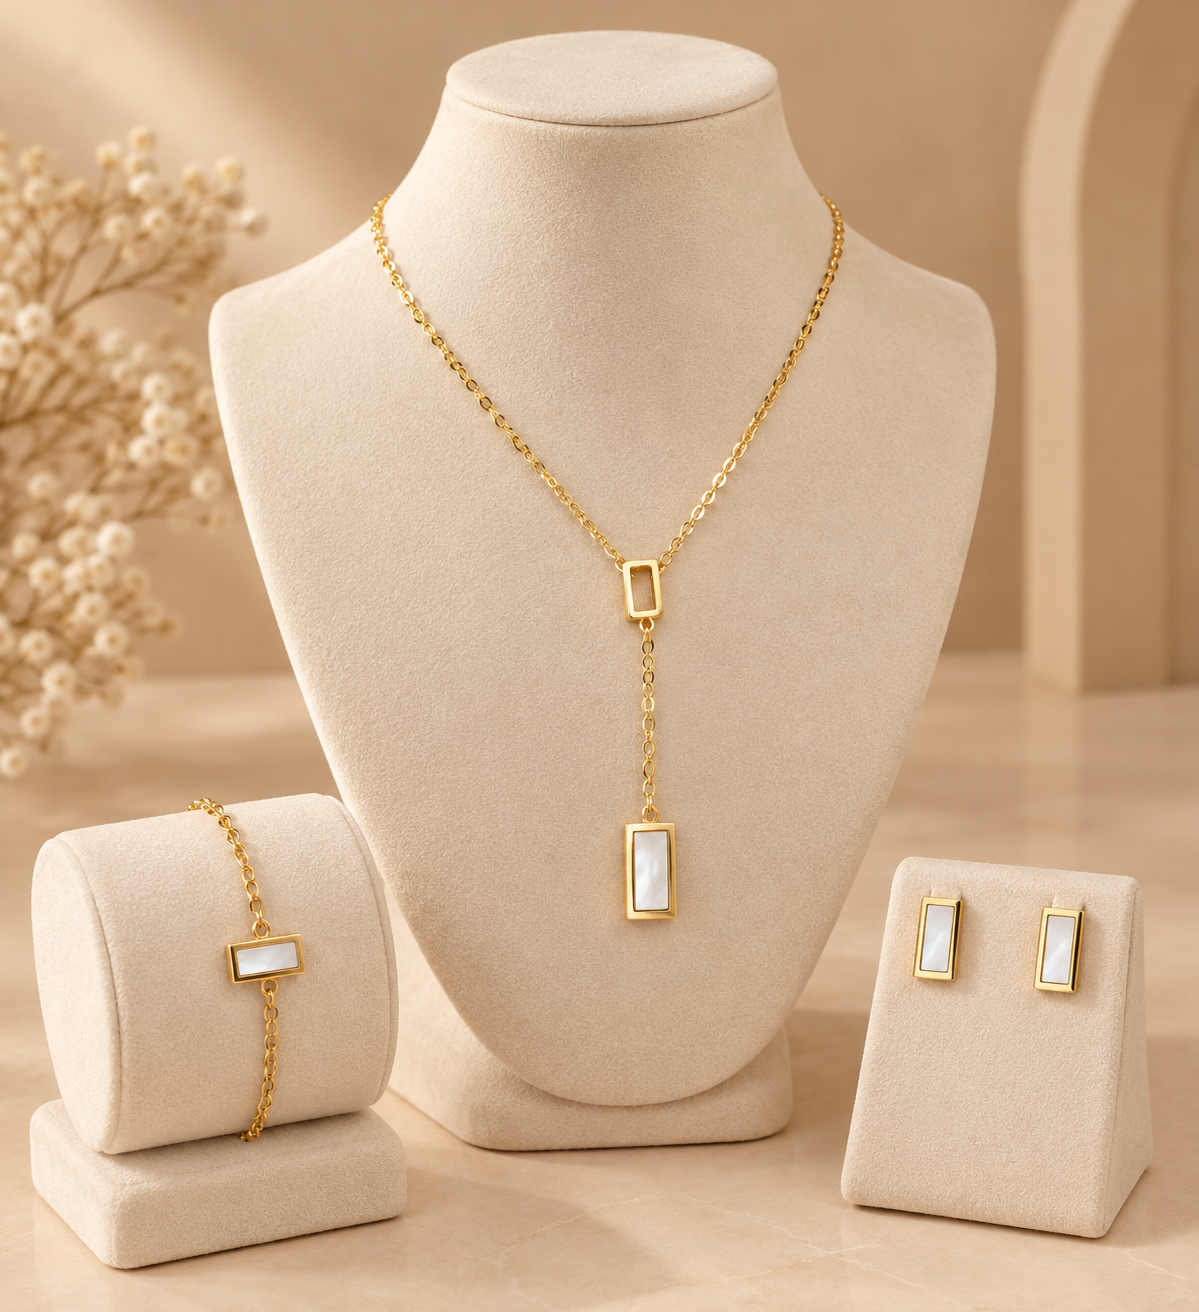
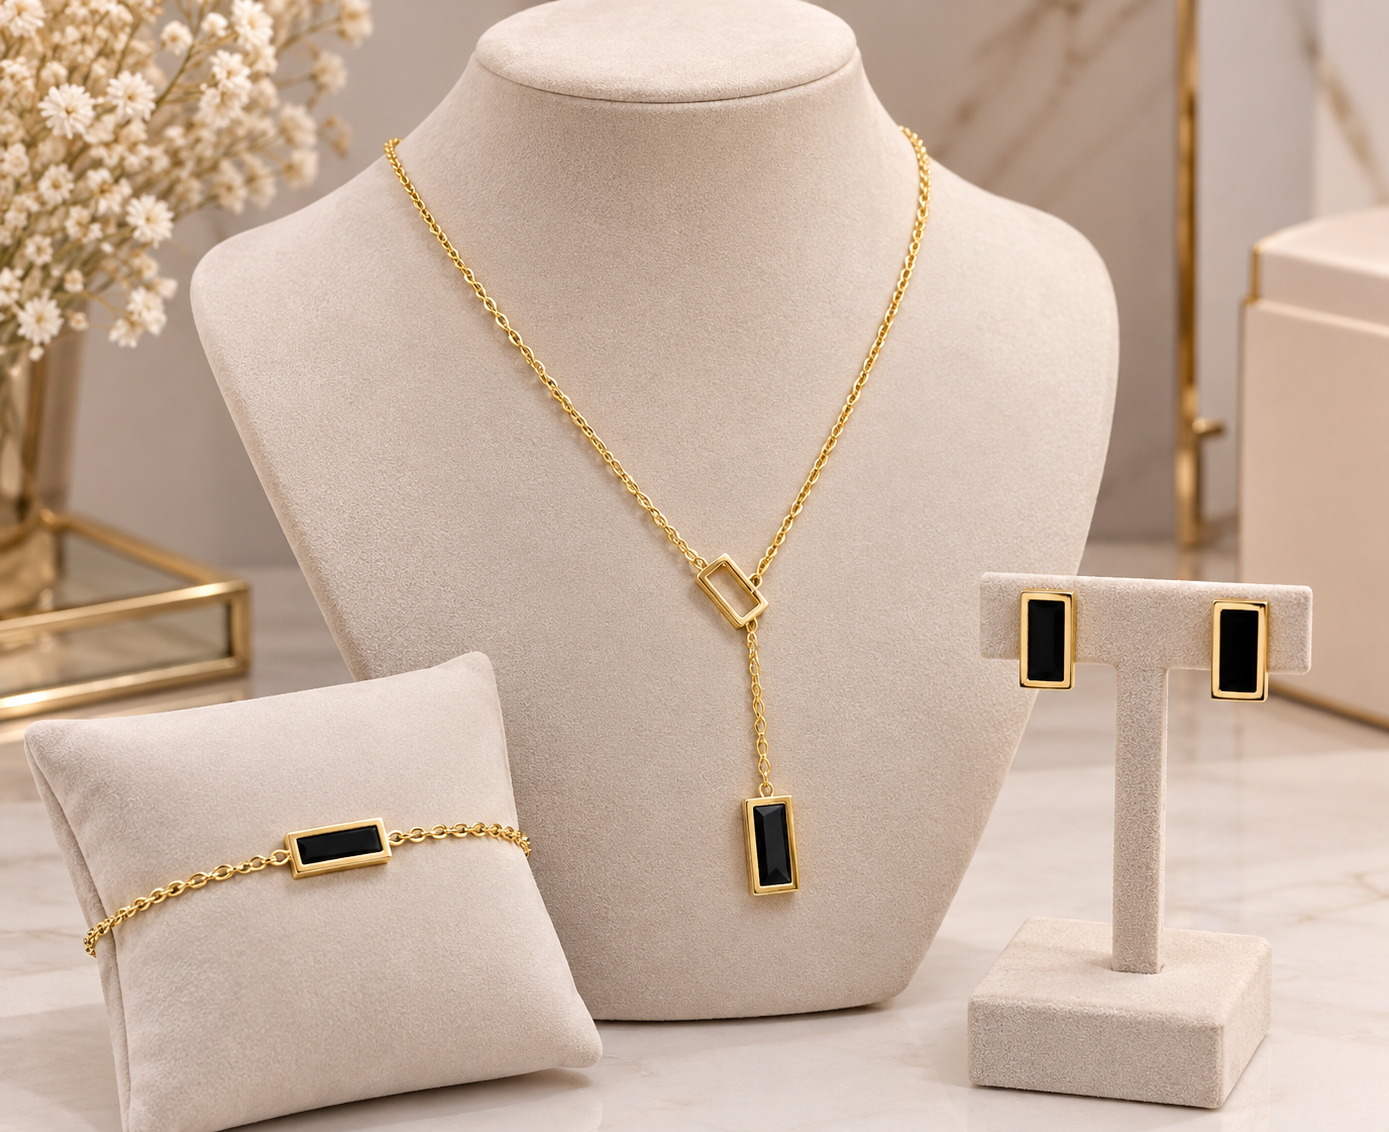
hero: modification

diff --git a/client/src/components/Hero.jsx b/client/src/components/Hero.jsx
@@ -4,7 +4,7 @@ import { Link } from "react-router-dom";
 const Hero3D = lazy(() => import("./Hero3D"));
 
 // Vidéos : client/public/hero/1.mp4, 2.mp4, 3.mp4
-// Les images (img) ne s'affichent QUE si la vidéo ne se charge pas
+// L'image (img) reste affichée tant que la vidéo ne joue pas vraiment
 const SLIDES = [
   { video: "/hero/1.mp4", img: "/hero/1.png", bg: "linear-gradient(120deg,#14110d,#4a381d)", eyebrow: "Nouvelle collection", title: "Accessoires", cta: "Voir la collection", cat: "bijoux-accessoires", three: false },
   { video: "/hero/2.mp4", img: "/hero/2.jpg", bg: "linear-gradient(120deg,#e3c3a8,#aebfd9)", eyebrow: "Maroquinerie", title: "Sacs ", cta: "Voir les sacs", cat: "sacs", three: false },
@@ -16,7 +16,8 @@ const fill = { position: "absolute", inset: 0, width: "100%", height: "100%" };
 export default function Hero() {
   const [i, setI] = useState(0);
   const [portrait, setPortrait] = useState({}); // vidéo verticale ?
-  const [failed, setFailed] = useState({}); // vidéo qui ne se charge pas ?
+  const [failed, setFailed] = useState({}); // vidéo en erreur ?
+  const [playing, setPlaying] = useState({}); // vidéo en lecture ?
   const vids = useRef([]);
   const blurs = useRef([]);
   const go = (n) => setI((n + SLIDES.length) % SLIDES.length);
@@ -36,11 +37,12 @@ export default function Hero() {
       {SLIDES.map((s, k) => {
         const p = portrait[k];
         const f = failed[k];
+        const showImg = f || !playing[k];
         return (
           <div
             key={k}
             className={`slide ${k === i ? "on" : ""}`}
-            style={{ background: f ? `url(${s.img}) center/cover, ${s.bg}` : s.bg }}
+            style={{ background: showImg ? `url(${s.img}) center/cover, ${s.bg}` : s.bg }}
           >
             {/* vidéo verticale : fond flou + vidéo entière au centre */}
             {p && !f && (
@@ -50,10 +52,11 @@ export default function Hero() {
             <video
               ref={(el) => (vids.current[k] = el)}
               src={s.video}
-              muted loop playsInline preload="metadata"
+              muted loop playsInline preload="auto"
               onLoadedMetadata={(e) => { const v = e.currentTarget; setPortrait((o) => ({ ...o, [k]: v.videoHeight > v.videoWidth })); }}
+              onPlaying={() => setPlaying((o) => ({ ...o, [k]: true }))}
               onError={() => setFailed((o) => ({ ...o, [k]: true }))}
-              style={{ ...fill, objectFit: p ? "contain" : "cover", display: f ? "none" : "block" }}
+              style={{ ...fill, objectFit: p ? "contain" : "cover", display: f ? "none" : "block", opacity: playing[k] ? 1 : 0 }}
             />
             {s.three && k === i && <div className="three"><Suspense fallback={null}><Hero3D /></Suspense></div>}
             <div className="slide-txt" style={p ? { right: "4%", maxWidth: "min(380px,30vw)" } : undefined}>
